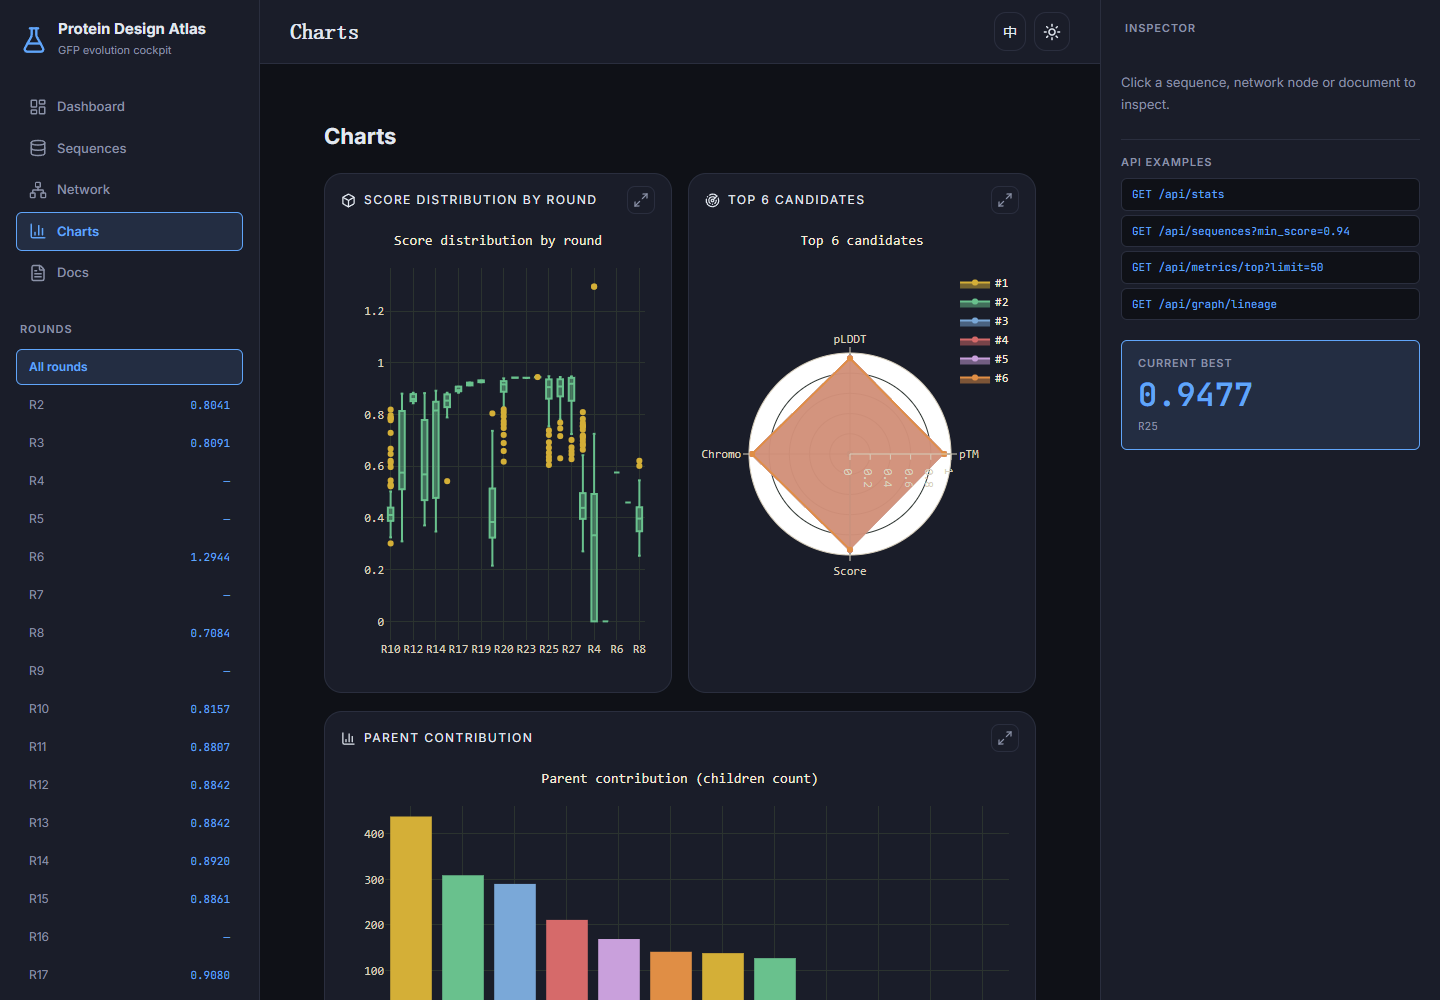
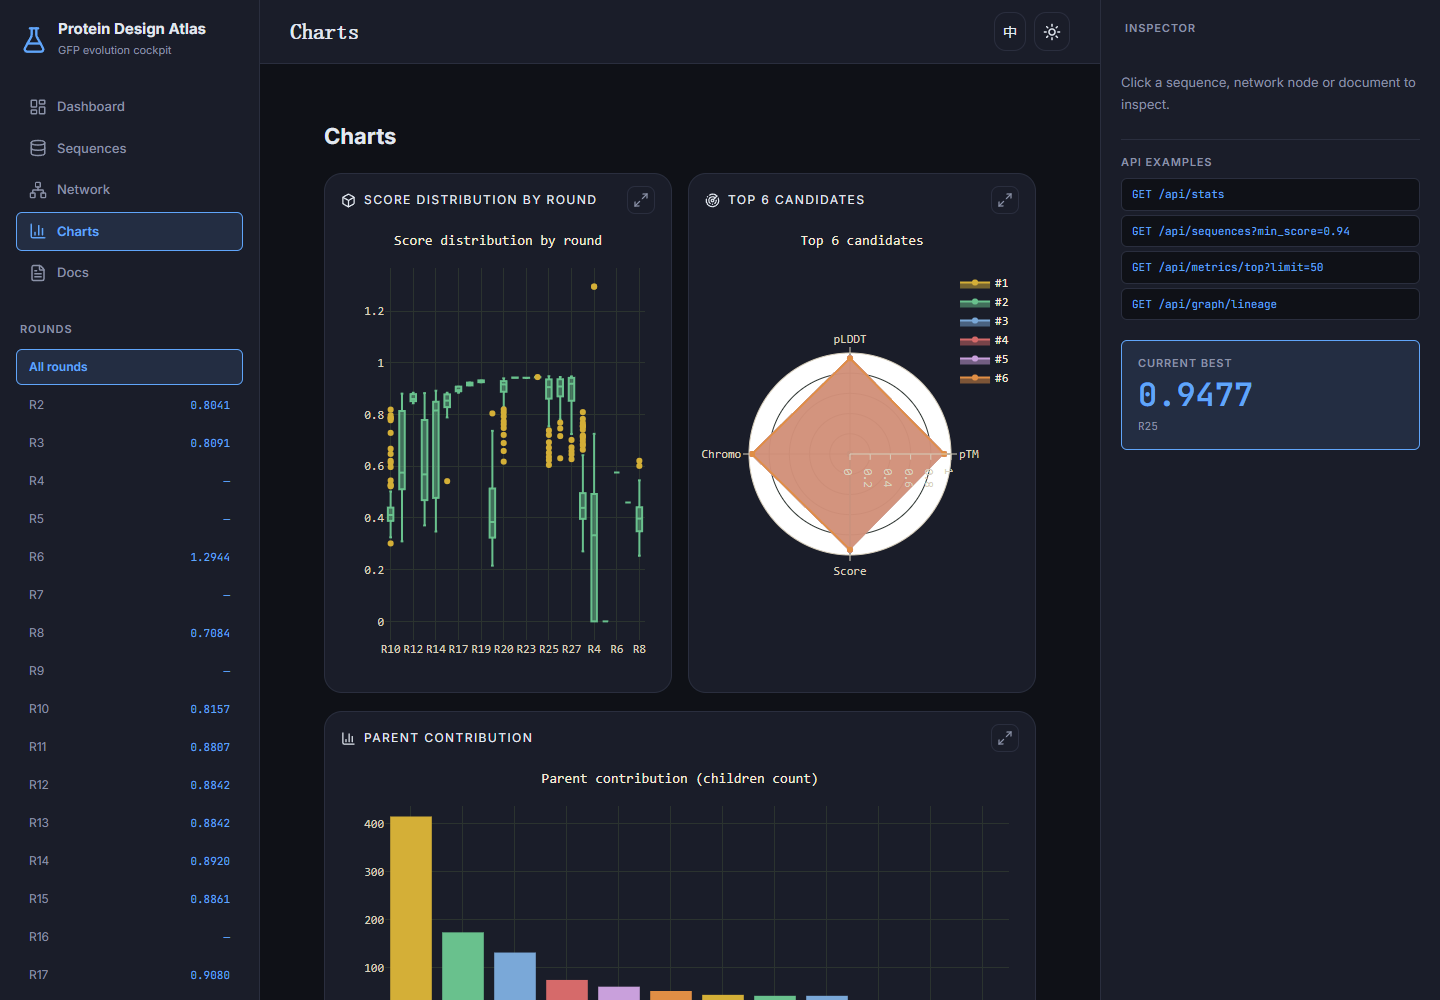
Improve topology graph: round-aware sampling and layered layout

Changed region(s): [[0.25, 0.868, 0.5938, 1.0], [0.25, 0.961, 0.2812, 0.992], [0.25, 0.806, 0.2812, 0.837]]

diff --git a/frontend/src/main.jsx b/frontend/src/main.jsx
@@ -424,25 +424,36 @@ function NetworkPage({onSelect, fsKey, setFsKey}) {
   useEffect(() => {
     let cy
     let ro
-    get('/api/graph/lineage?min_score=0.85&limit=1000').then(g => {
+    get('/api/graph/lineage?min_score=0.0&limit=800&per_round=12').then(g => {
       if (!ref.current) return
-      // 每轮均匀采样节点，避免 R25 占满
-      const nodesByRound = {}
-      ;(g.nodes || []).forEach(n => {
-        const r = n.data.source_round || n.data.label || 'other'
-        ;(nodesByRound[r] = nodesByRound[r] || []).push(n)
+      // 按轮次分层布局，确保 R2-R27 都能显示
+      const inputNodes = g.nodes || []
+      const inputEdges = g.edges || []
+      const order = [...new Set(inputNodes.map(n => n.data.source_round).filter(r => r && r !== 'parent_label'))]
+        .sort((a, b) => Number(String(a).slice(1)) - Number(String(b).slice(1)))
+      const roundIndex = Object.fromEntries(order.map((r, i) => [r, i]))
+      const byRound = {}
+      inputNodes.forEach(n => { (byRound[n.data.source_round || 'parent_label'] = byRound[n.data.source_round || 'parent_label'] || []).push(n) })
+      const nodes = inputNodes.map(n => {
+        const r = n.data.source_round || 'parent_label'
+        const arr = byRound[r] || []
+        const idx = arr.findIndex(x => x.data.id === n.data.id)
+        const x = r === 'parent_label' ? -180 : (roundIndex[r] ?? 0) * 180
+        const y = n.data.node_type === 'round_anchor' ? -260 : (idx - (arr.length - 1) / 2) * 54
+        return {
+          ...n,
+          position: {x, y},
+          data: {
+            ...n.data,
+            label: n.data.label && n.data.label.length === 16 && /^[0-9a-f]+$/.test(n.data.label)
+              ? `${n.data.source_round || ''} ${n.data.best_score ? Number(n.data.best_score).toFixed(4) : ''}`
+              : n.data.label
+          }
+        }
       })
-      const sampledNodes = []
-      Object.keys(nodesByRound).forEach(r => {
-        const arr = nodesByRound[r]
-        // 每轮最多 40 个节点
-        const step = Math.max(1, Math.ceil(arr.length / 40))
-        for (let i = 0; i < arr.length; i += step) sampledNodes.push(arr[i])
-      })
-      const nodeIds = new Set(sampledNodes.map(n => n.data.id))
-      // 去重边 + 只保留两端节点都在的边
+      const nodeIds = new Set(nodes.map(n => n.data.id))
       const seenEdges = new Set()
-      const edges = (g.edges || []).filter(e => {
+      const edges = inputEdges.filter(e => {
         const s = e.data.source, t = e.data.target
         if (!nodeIds.has(s) || !nodeIds.has(t)) return false
         const key = s + '->' + t
@@ -450,31 +461,30 @@ function NetworkPage({onSelect, fsKey, setFsKey}) {
         seenEdges.add(key)
         return true
       })
-      // 节点标签优化：序列 hash 节点显示 轮次+分数
-      const nodes = sampledNodes.map(n => ({
-        ...n,
-        data: {
-          ...n.data,
-          label: n.data.label && n.data.label.length === 16 && /^[0-9a-f]+$/.test(n.data.label)
-            ? `${n.data.source_round || ''} ${n.data.best_score ? Number(n.data.best_score).toFixed(4) : ''}`
-            : n.data.label
-        }
-      }))
       cy = cytoscape({
         container: ref.current,
         elements: [...nodes, ...edges],
-        layout: {name: 'fcose', animate: false, nodeSeparation: 80, idealEdgeLength: 120},
+        layout: {name: 'preset', fit: true, padding: 10},
         style: [
           {selector: 'node', style: {
-            'background-color': `mapData(best_score,0.93,0.948,${theme === 'dark' ? '#315b7c' : '#7aa8d8'},${theme === 'dark' ? '#e0b84a' : '#9a7b1f'})`,
+            'background-color': `mapData(best_score,0.0,0.948,${theme === 'dark' ? '#315b7c' : '#7aa8d8'},${theme === 'dark' ? '#e0b84a' : '#9a7b1f'})`,
             'label': 'data(label)', 'color': theme === 'dark' ? '#eee' : '#333', 'font-size': 8,
-            'width': 'mapData(best_score,0.93,0.948,20,48)', 'height': 'mapData(best_score,0.93,0.948,20,48)', 'text-wrap': 'wrap', 'text-valign': 'bottom', 'text-margin-y': 4
+            'width': 'mapData(best_score,0.0,0.948,16,44)', 'height': 'mapData(best_score,0.0,0.948,16,44)', 'text-wrap': 'wrap', 'text-valign': 'bottom', 'text-margin-y': 4
+          }},
+          {selector: 'node[node_type = "round_anchor"]', style: {
+            'shape': 'round-rectangle', 'width': 62, 'height': 28,
+            'background-color': theme === 'dark' ? '#243044' : '#e7eefb',
+            'border-width': 1, 'border-color': theme === 'dark' ? '#60a5fa' : '#3b82f6',
+            'font-size': 13, 'font-weight': 700, 'text-valign': 'center', 'text-halign': 'center', 'text-margin-y': 0
           }},
           {selector: 'edge', style: {
             'line-color': theme === 'dark' ? '#53645f' : '#c8c0ac',
             'target-arrow-color': theme === 'dark' ? '#8aa39b' : '#999',
             'target-arrow-shape': 'triangle', 'curve-style': 'bezier', 'opacity': 0.5,
             'arrow-scale': 1.2, 'width': 1.5
+          }},
+          {selector: 'edge[edge_type = "round_anchor"]', style: {
+            'line-style': 'dashed', 'line-color': theme === 'dark' ? '#334155' : '#cbd5e1', 'opacity': 0.22, 'target-arrow-shape': 'none', 'width': 1
           }}
         ]
       })
@@ -504,7 +514,7 @@ function NetworkPage({onSelect, fsKey, setFsKey}) {
   return (
     <main className="main" style={{display: 'flex', flexDirection: 'column'}}>
       <div className="pagehead"><h2>{t.topologyNetwork}</h2><p className="muted">{t.networkDesc}</p></div>
-      <ChartFrame title={t.topologyNetwork} chartKey={KEY} fsKey={fsKey} setFsKey={setFsKey} icon={GitBranch} style={{flex: 1, minHeight: 400}}>
+      <ChartFrame title={t.topologyNetwork} chartKey={KEY} fsKey={fsKey} setFsKey={setFsKey} icon={GitBranch} style={{flex: 1, minHeight: 720}}>
         <div ref={ref} style={{width: '100%', height: '100%', position: 'absolute', inset: 0}}/>
       </ChartFrame>
     </main>

diff --git a/backend/app/main.py b/backend/app/main.py
@@ -97,18 +97,48 @@ def get_document(doc_id: int):
     return r[0] if r else {}
 
 @app.get("/api/graph/lineage")
-def lineage_graph(min_score: float = 0.90, limit: int = 500):
-    nodes = rows("SELECT id, source_round, best_score, best_ptm, best_plddt, best_chromo, length FROM sequences WHERE best_score>=? ORDER BY best_score DESC LIMIT ?", (min_score, limit))
+def lineage_graph(min_score: float = 0.0, limit: int = 800, per_round: int = Query(24, le=80)):
+    # Round-aware sampling: keep every round visible instead of letting late rounds dominate.
+    # Exclude invalid score outliers (>1) and null-score records; R6 round-level score is known to be abnormal.
+    nodes = rows("""
+        WITH ranked AS (
+            SELECT id, source_round, best_score, best_ptm, best_plddt, best_chromo, length,
+                   ROW_NUMBER() OVER (
+                       PARTITION BY source_round
+                       ORDER BY best_score DESC NULLS LAST
+                   ) AS rn
+            FROM sequences
+            WHERE source_round IS NOT NULL
+              AND source_round != 'R6'
+              AND best_score IS NOT NULL
+              AND best_score BETWEEN ? AND 1
+        )
+        SELECT id, source_round, best_score, best_ptm, best_plddt, best_chromo, length
+        FROM ranked
+        WHERE rn <= ?
+        ORDER BY CAST(substr(source_round, 2) AS INTEGER), best_score DESC
+        LIMIT ?
+    """, (min_score, per_round, limit))
     ids = {n["id"] for n in nodes}
-    edges = rows("SELECT * FROM lineage_edges WHERE child_sequence_id IN (%s) LIMIT 2000" % ",".join("?" for _ in ids), tuple(ids)) if ids else []
+    edges = rows("SELECT * FROM lineage_edges WHERE child_sequence_id IN (%s) LIMIT 4000" % ",".join("?" for _ in ids), tuple(ids)) if ids else []
     cy_nodes = [{"data": {"id": n["id"], "label": f"{n.get('source_round') or ''}\n{(n.get('best_score') or 0):.4f}", **n}} for n in nodes]
+    # Add round anchor nodes so every round is visible even if it has no scored sequence.
+    round_rows = rows("SELECT round_key, round_number, best_score FROM rounds WHERE round_key != 'R6' ORDER BY round_number")
+    for r in round_rows:
+        cy_nodes.append({"data": {"id": f"round:{r['round_key']}", "label": r["round_key"], "source_round": r["round_key"], "round_number": r["round_number"], "best_score": r.get("best_score") or 0, "node_type": "round_anchor"}})
     cy_edges = [{"data": {"id": f"e{e['id']}", "source": e.get("parent_sequence_id") or e.get("parent_label") or "unknown", "target": e["child_sequence_id"], **e}} for e in edges]
-    # Add parent label placeholder nodes if needed
+    # Add faint round-anchor edges to place sequences near their round.
+    anchor_edges = []
+    for n in nodes:
+        if n.get("source_round"):
+            anchor_edges.append({"data": {"id": f"anchor:{n['id']}", "source": f"round:{n['source_round']}", "target": n["id"], "edge_type": "round_anchor", "weight": 0}})
+    cy_edges.extend(anchor_edges)
+    # Add parent label placeholder nodes if needed.
     existing = {n["data"]["id"] for n in cy_nodes}
     for e in cy_edges:
         src = e["data"]["source"]
         if src not in existing:
-            cy_nodes.append({"data": {"id": src, "label": str(src)[:32], "source_round": "parent_label", "best_score": 0}})
+            cy_nodes.append({"data": {"id": src, "label": str(src)[:32], "source_round": "parent_label", "best_score": 0, "node_type": "parent_label"}})
             existing.add(src)
     return {"nodes": cy_nodes, "edges": cy_edges}
 

diff --git a/tmp_inspect_db.py b/tmp_inspect_db.py
@@ -1,0 +1,10 @@
+import sqlite3
+p=r'D:\生信\2026Protein Design\protein-design-atlas\data\design.db'
+con=sqlite3.connect(p); con.row_factory=sqlite3.Row
+print('rounds')
+for r in con.execute('select round_key, round_number, best_score from rounds order by round_number'):
+    print(dict(r))
+print('\nseq counts')
+for r in con.execute("select source_round, count(*) n, max(best_score) mx, min(best_score) mn from sequences group by source_round order by cast(substr(source_round,2) as int)"):
+    print(dict(r))
+con.close()